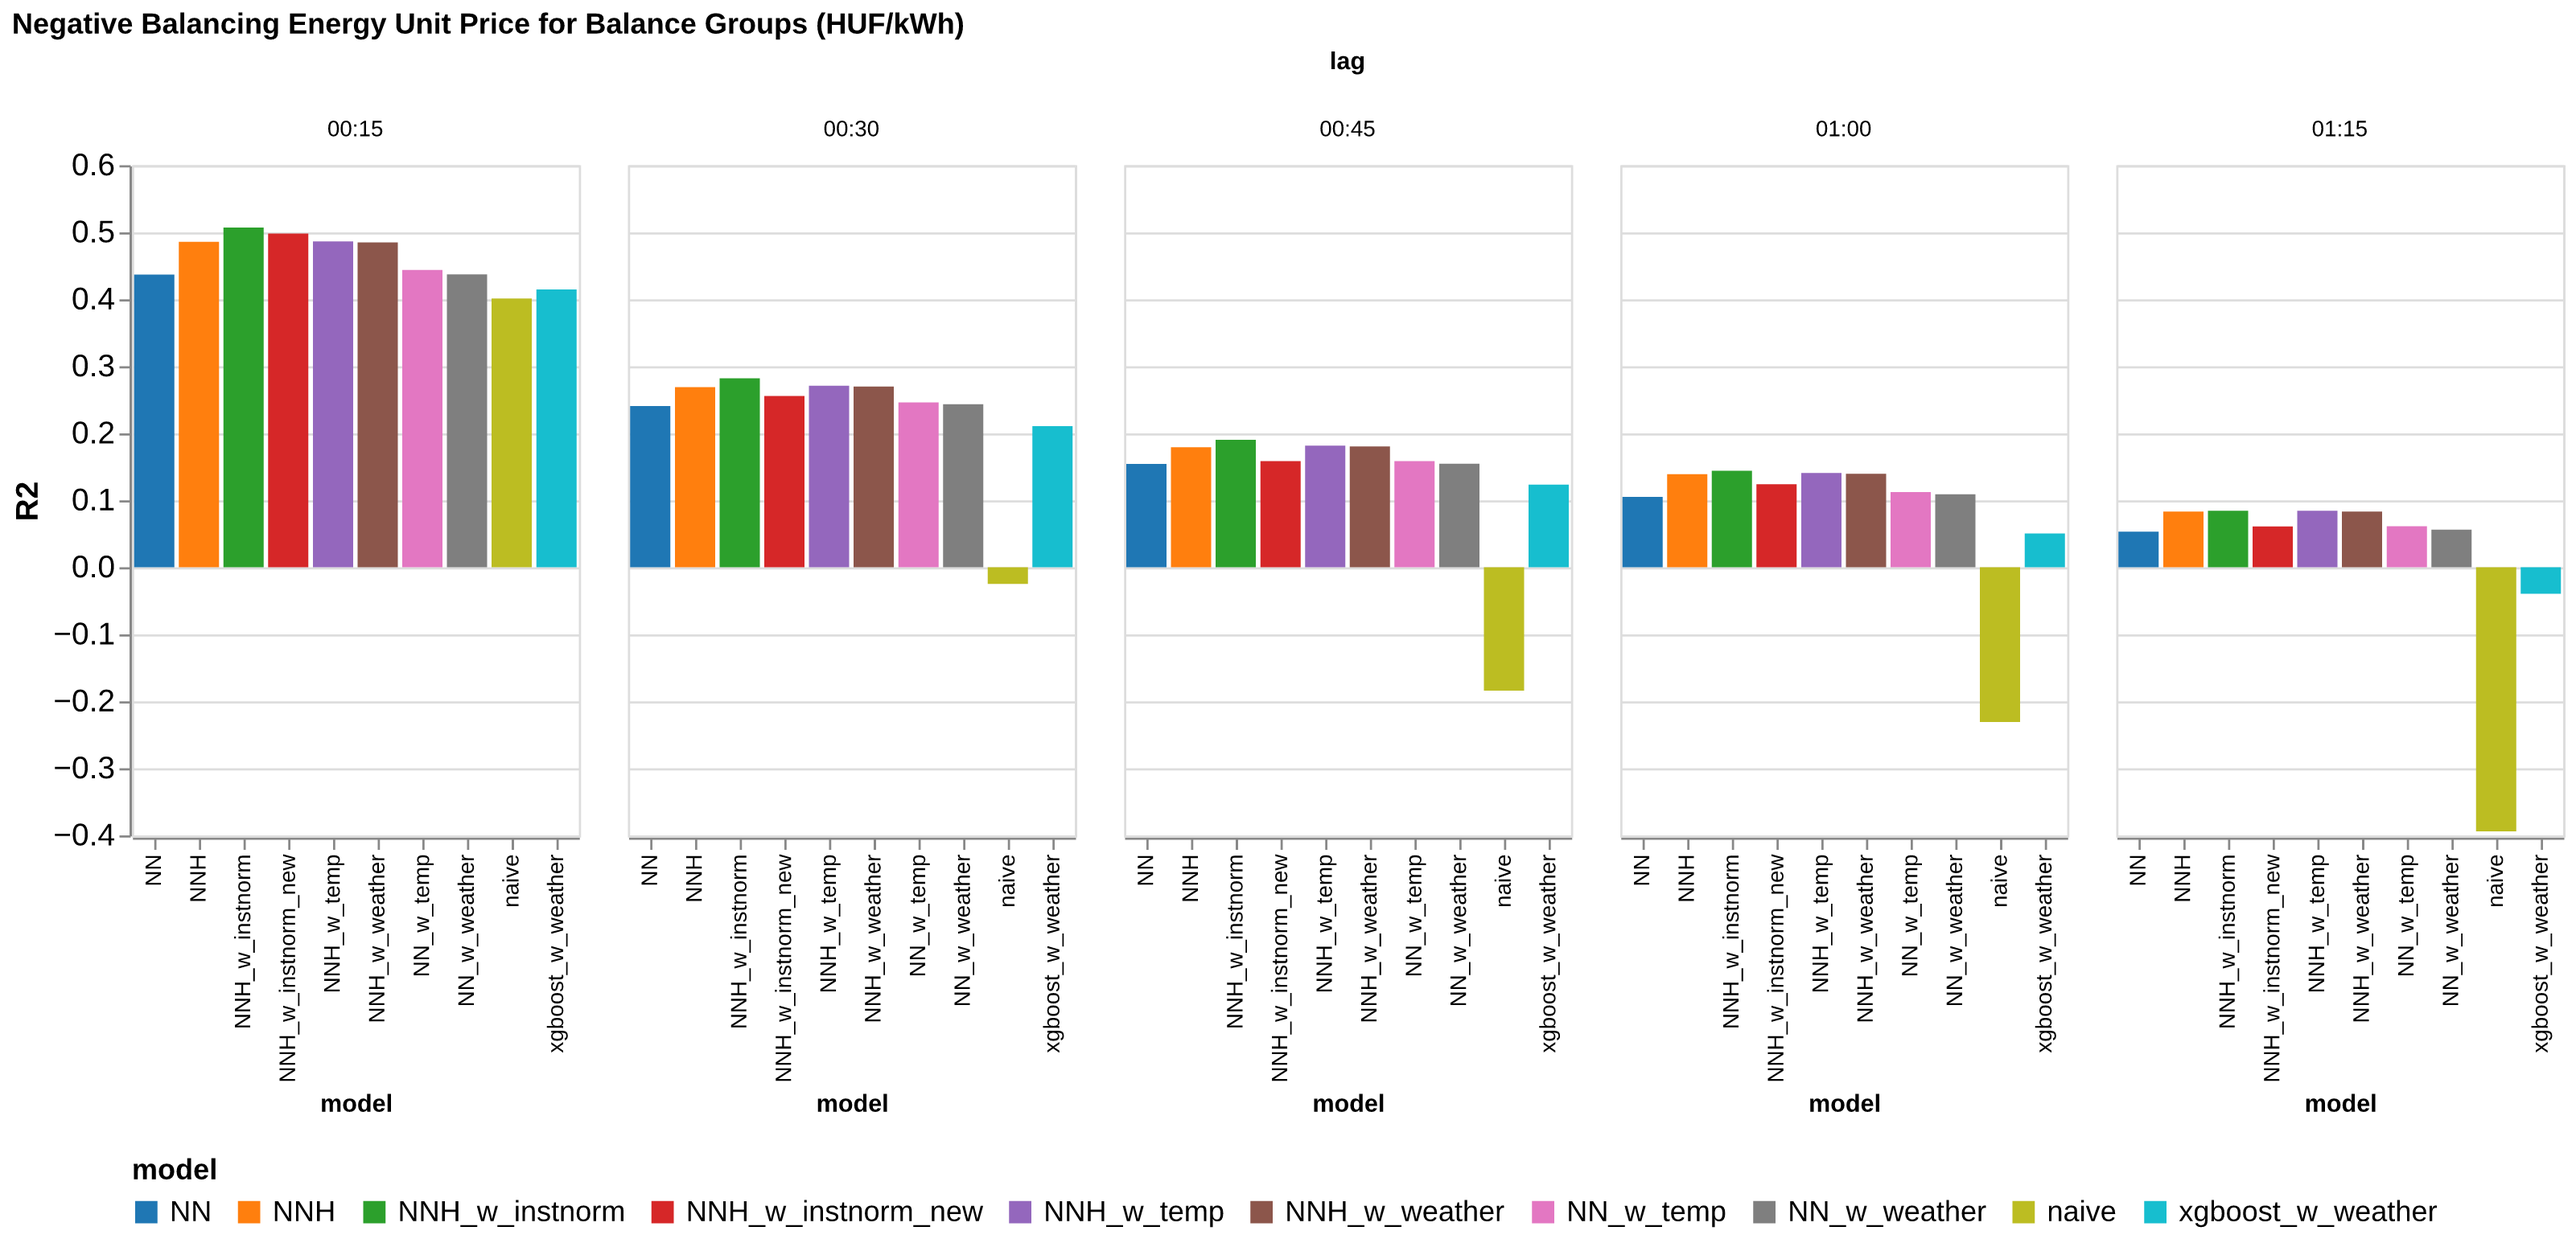
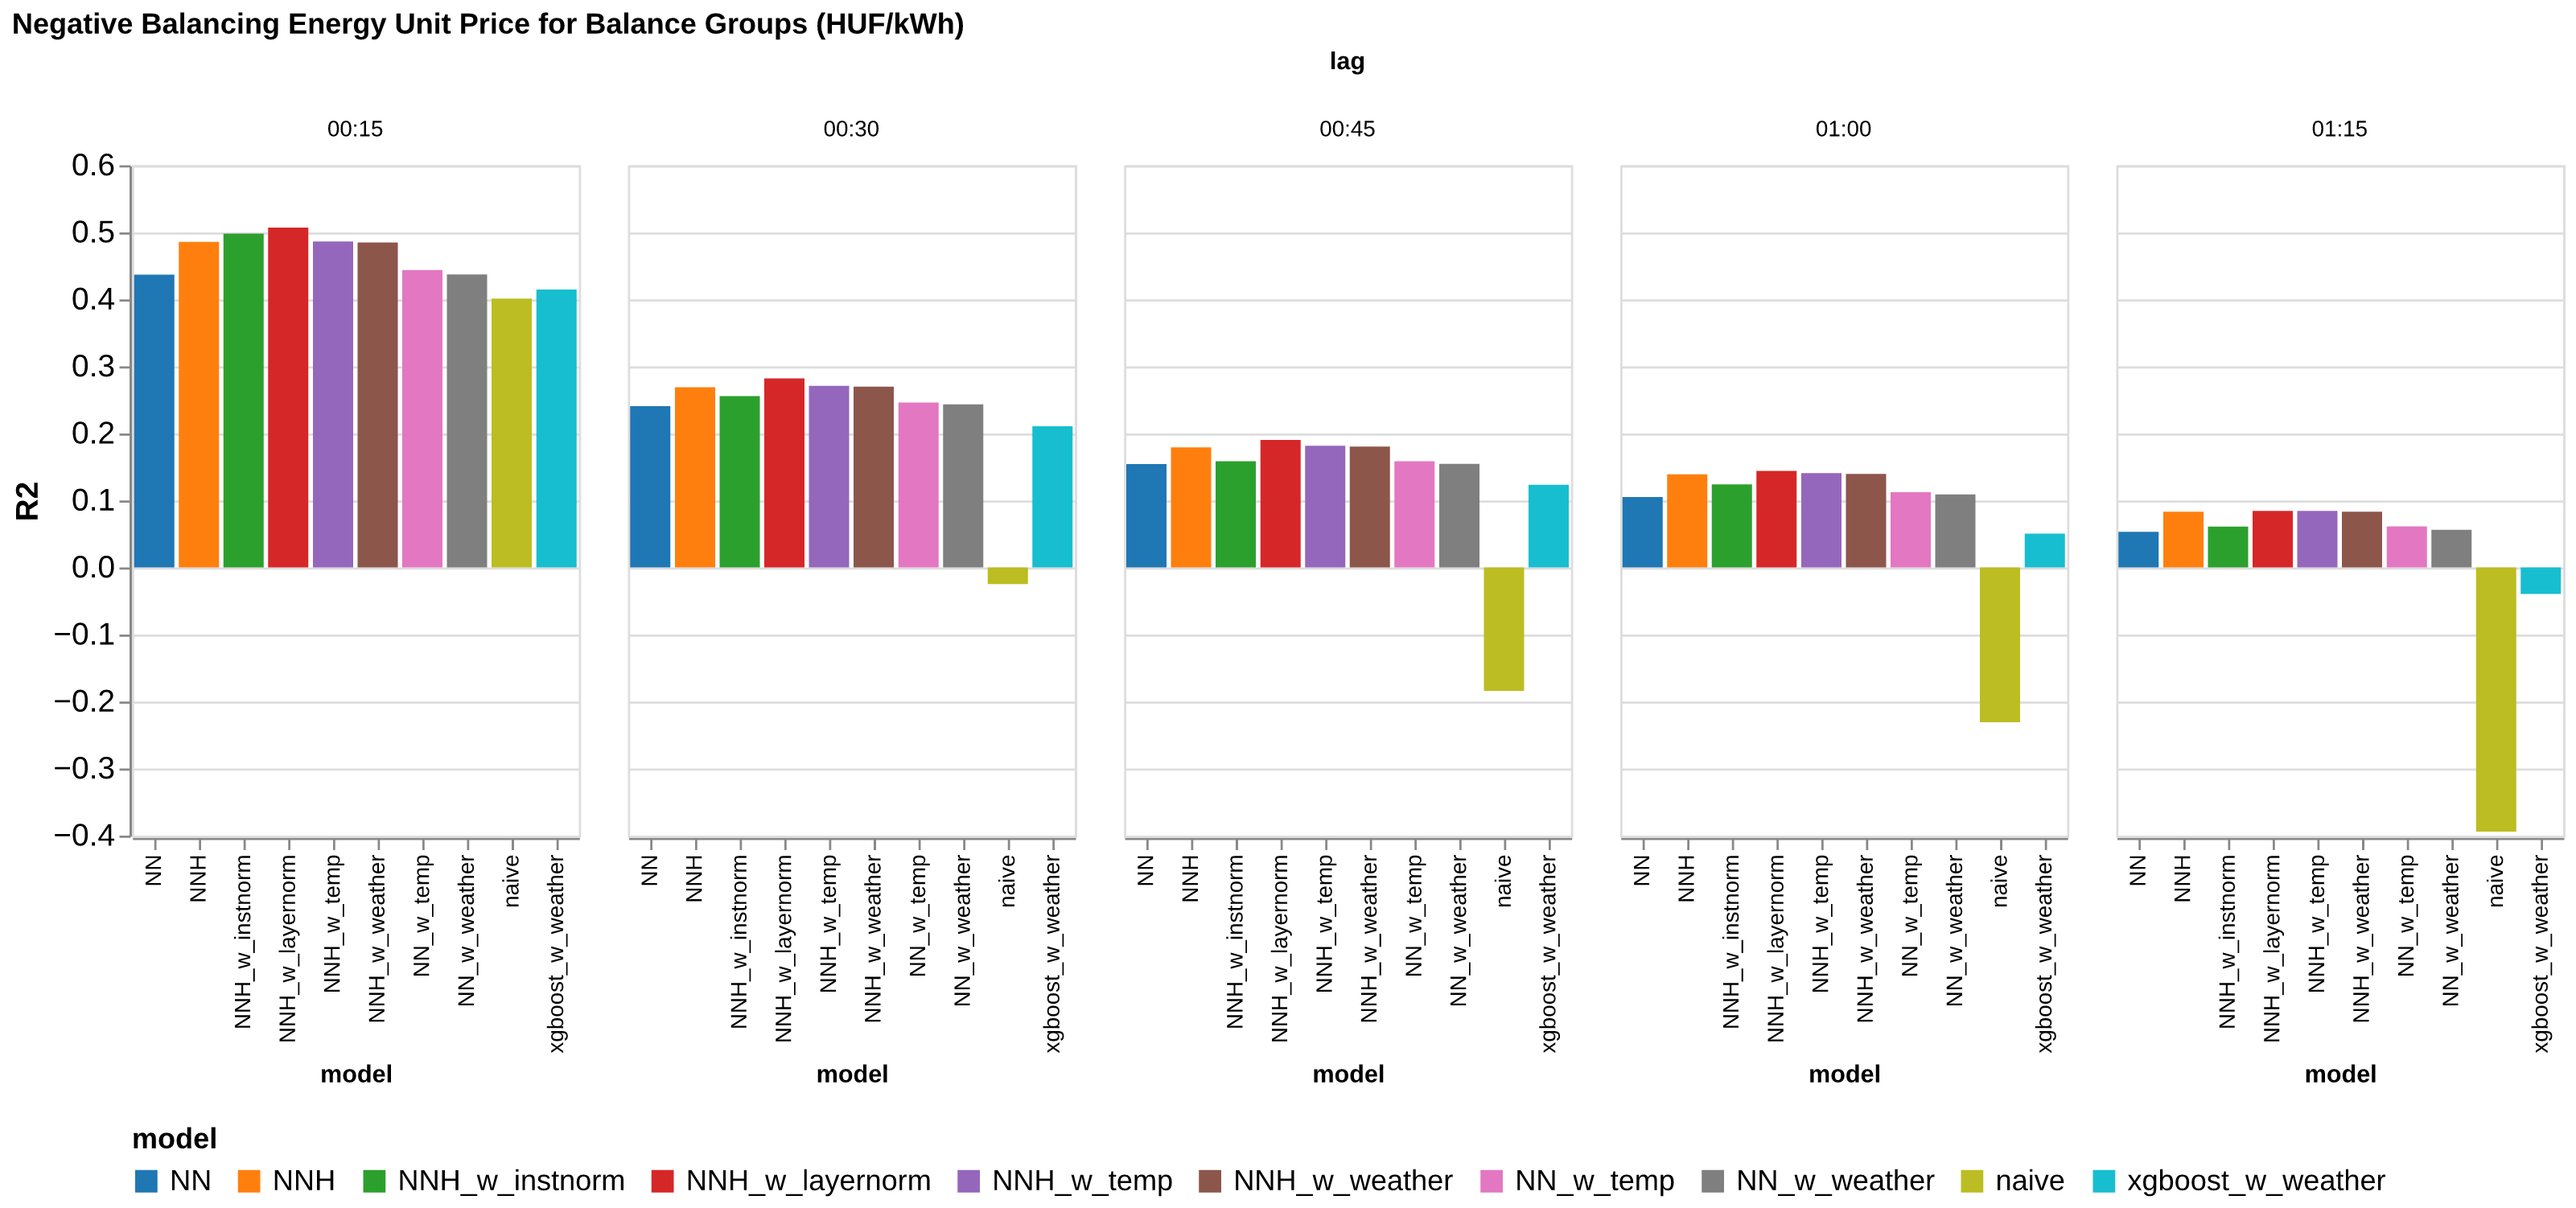
fixed xticklabels

diff --git a/plot_results.py b/plot_results.py
@@ -85,8 +85,8 @@ results = {
     "NNH": unpivot_errors(pl.read_csv("model_results/NN_100_seeds_Huber_joined_df_12-1.csv")),
     "NNH_w_temp": unpivot_errors(pl.read_csv("model_results/NN_100_seeds_Huber_joined_df_with_temp_12-1.csv")),
     "NNH_w_weather": unpivot_errors(pl.read_csv("model_results/NN_100_seeds_Huber_joined_df_with_weather_12-1.csv")),
-    "NNH_w_instnorm": unpivot_errors(pl.read_csv("model_results/NN_100_seeds_Huber_instance_norm_joined_df_with_weather_11-4.csv")),
-    "NNH_w_instnorm_new": unpivot_errors(pl.read_csv("model_results/NN_1_seeds_Huber_instance_norm_joined_df_with_weather_11-27.csv")),
+    "NNH_w_layernorm": unpivot_errors(pl.read_csv("model_results/NN_100_seeds_Huber_instance_norm_joined_df_with_weather_11-4.csv")),
+    "NNH_w_instnorm": unpivot_errors(pl.read_csv("model_results/NN_1_seeds_Huber_instance_norm_joined_df_with_weather_11-27.csv")),
     "naive": unpivot_errors(pl.read_csv("model_results/naive_model.csv")),
 }
 compare_results(results)
